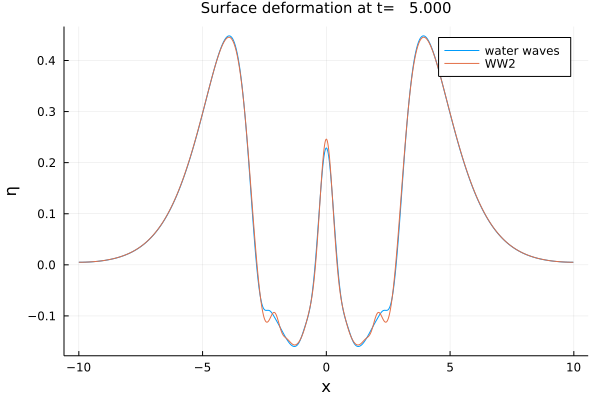
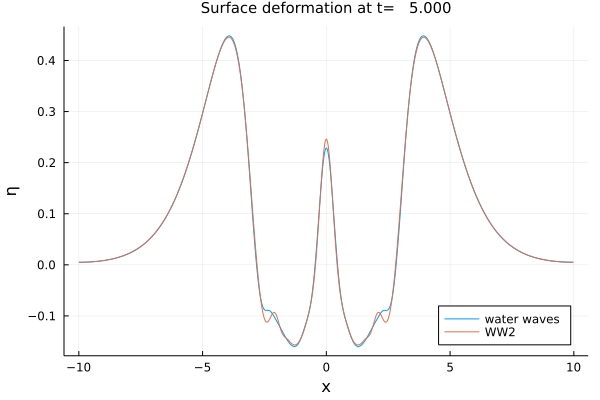
update figure

diff --git a/paper/paper.md b/paper/paper.md
@@ -105,29 +105,29 @@ param = (
     L  = 10,    # half-length of the numerical tank (-L,L)
     T  = 5,     # final time of computation
     dt = 0.01,  # timestep
-                );
+                )
 ```
 
 Now we define initial data solver (the "heap of water"). The function `Init` may take either functions, or vectors (values at collocation points) as arguments.
 
 ```julia
-z(x) = exp.(-abs.(x).^4); # surface deformation
-v(x) = zero(x);     # zero initial velocity
-init = Init(z,v);         # generate the initial data with correct type
+z(x) = exp.(-abs.(x).^4) # surface deformation
+v(x) = zero(x)           # zero initial velocity
+init = Init(z,v)         # generate the initial data with correct type
 ```
 
 Then we build the different models `WaterWaves` and `WWn` to compare:
 
 ```julia
-WW_model=WaterWaves(param) # The water waves system
-WW2_model=WWn(param;n=2,dealias=1,δ=1/10) # The quadratic model (WW2)
+WW_model  = WaterWaves(param) # The water waves system
+WW2_model = WWn(param; n = 2, dealias = 1, δ = 1/10) # The quadratic model (WW2)
 ```
 
 Finally we set up initial-value problems. Optionally, one may specify a `time solver` to `Problem`, by default the standard explicit fourth order Runge Kutta method is used.
 
 ```julia
-WW_problem=Problem(WW_model, init, param) ;
-WW2_problem=Problem(WW2_model, init, param) ;
+WW_problem  = Problem(WW_model,  init, param)
+WW2_problem = Problem(WW2_model, init, param)
 ```
 ## Solve the initial-value problem and generate graphics
 
@@ -136,7 +136,7 @@ using Plots
 
 solve!([WW_problem WW2_problem])
 
-plot([WW_problem, WW2_problem])
+plot([WW_problem, WW2_problem], legend = :bottomright)
 ```
 ![Water waves system and the quadratic model](paper.png){ width=80% }
 
